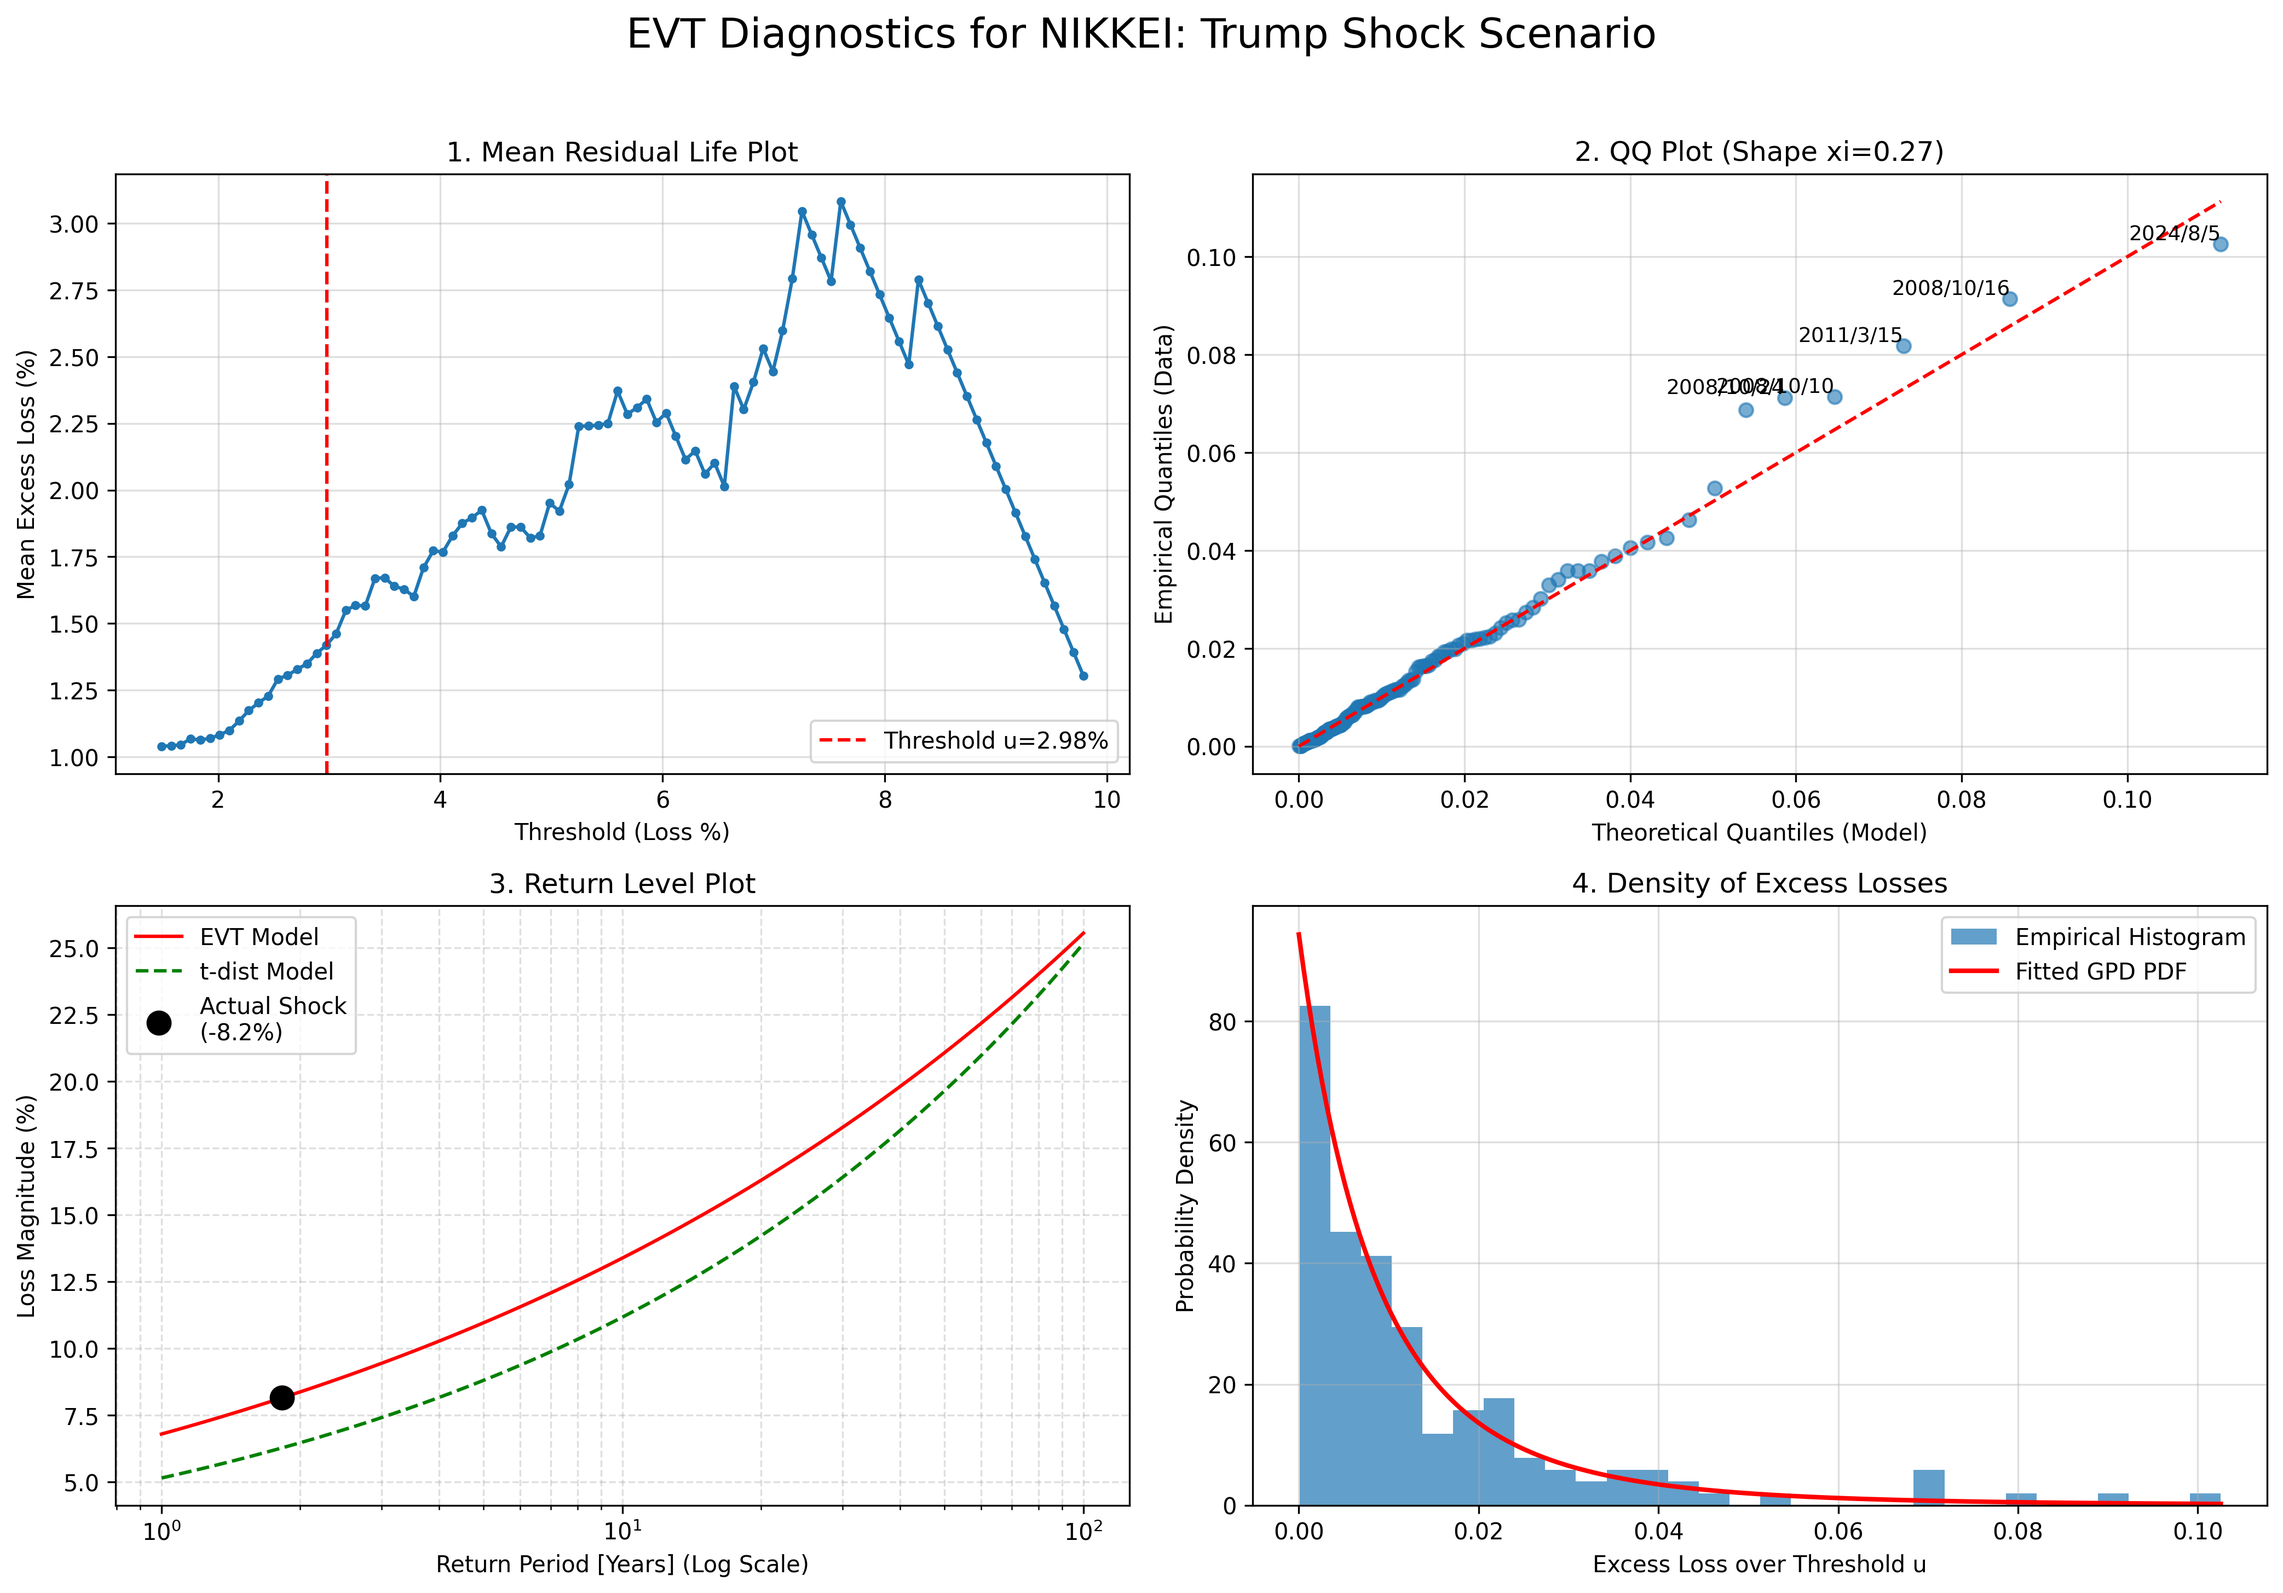
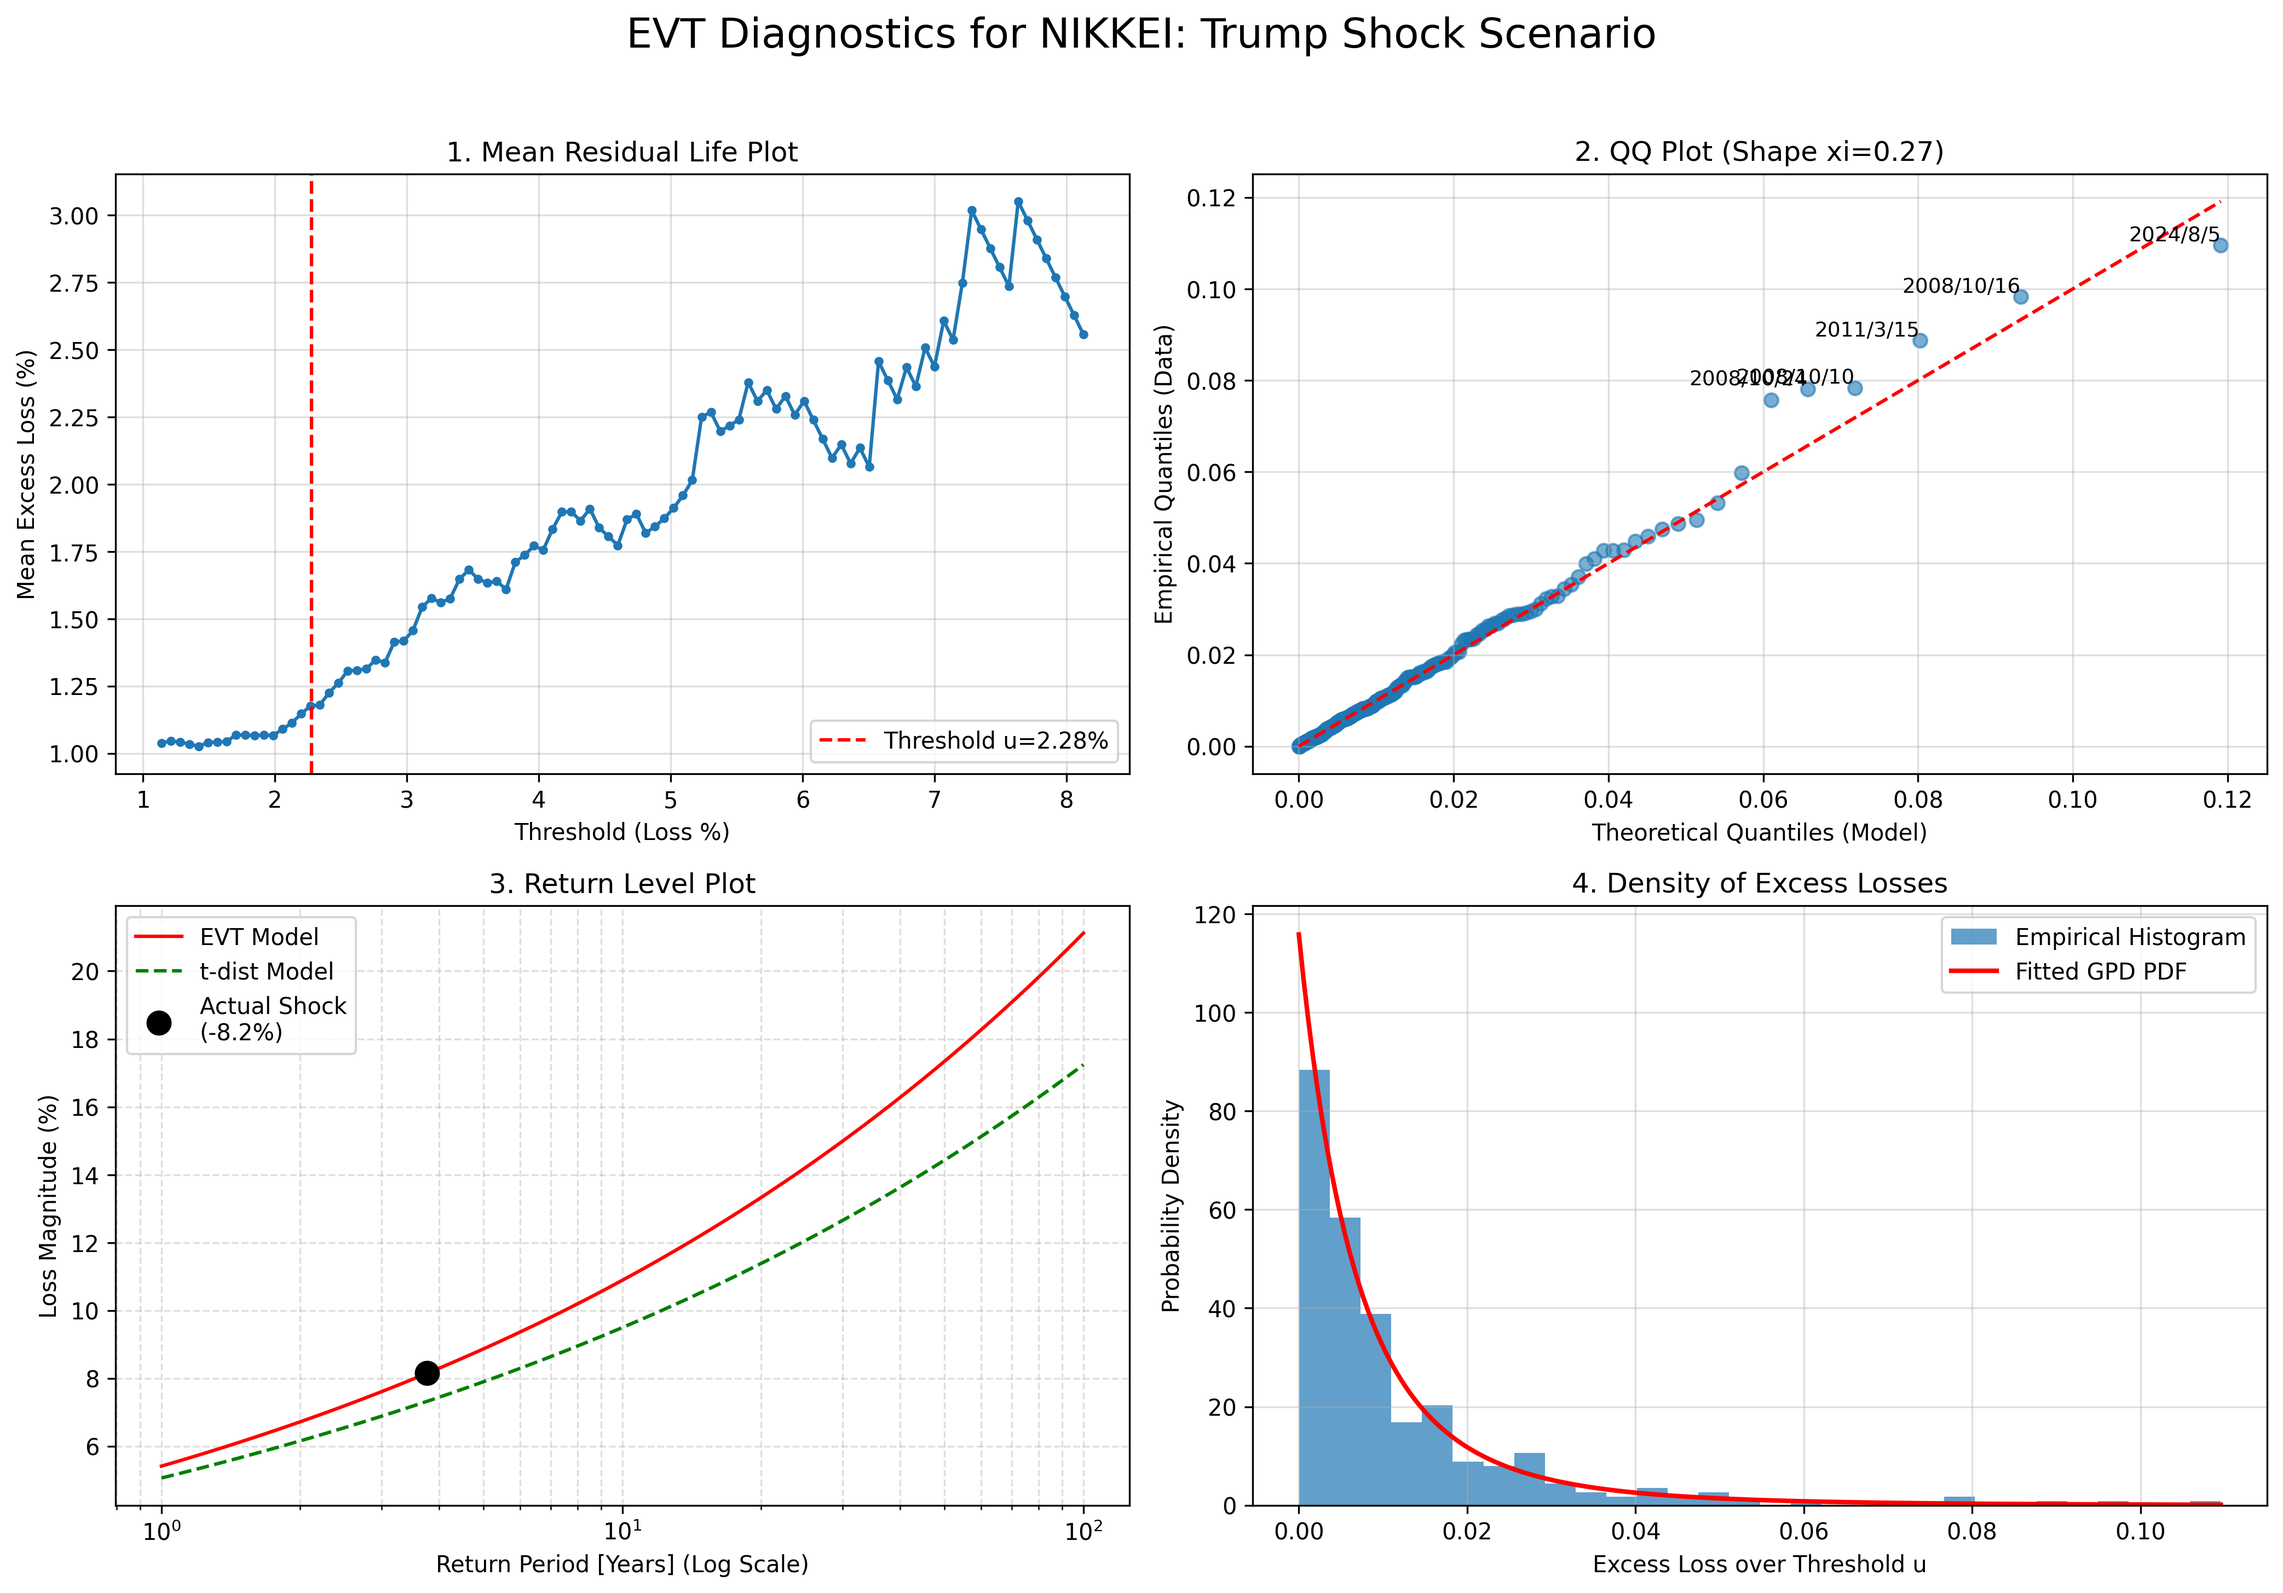
fix: removed unnecessary filtering

diff --git a/evt.py b/evt.py
@@ -186,7 +186,7 @@ def analyze_and_report_shock(df: pd.DataFrame, index_name: str, scenario: dict):
     # Walk-forward: ショック発生前日までのデータでモデルを訓練
     train_df = df.loc[df.index < shock_date]
     losses = -train_df[return_col].dropna()
-    losses = losses[losses > 0] # 損失のみを対象
+    #losses = losses[losses > 0] # 損失のみを対象
 
     if len(losses) < 200: # 分析に必要な最小データ数
         print(f"{scenario['name']:<25} | 分析不可: モデル訓練のためのデータが不足しています（{len(losses)}件）。")
